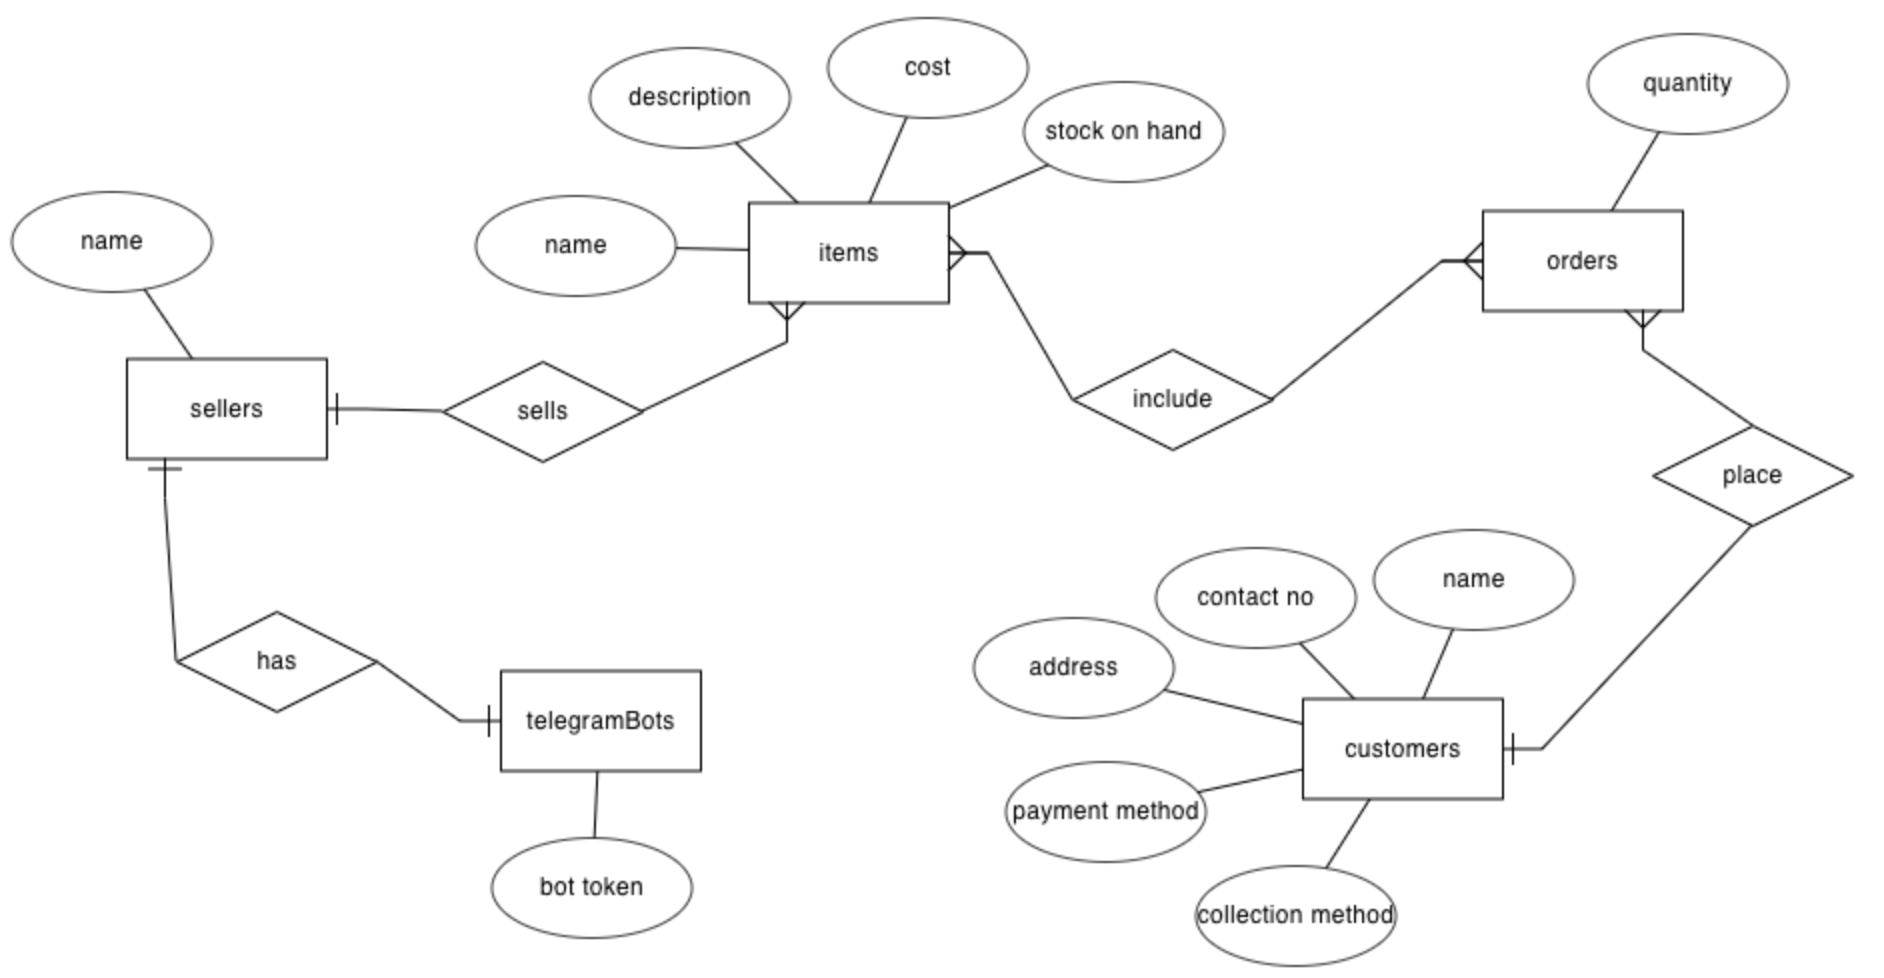
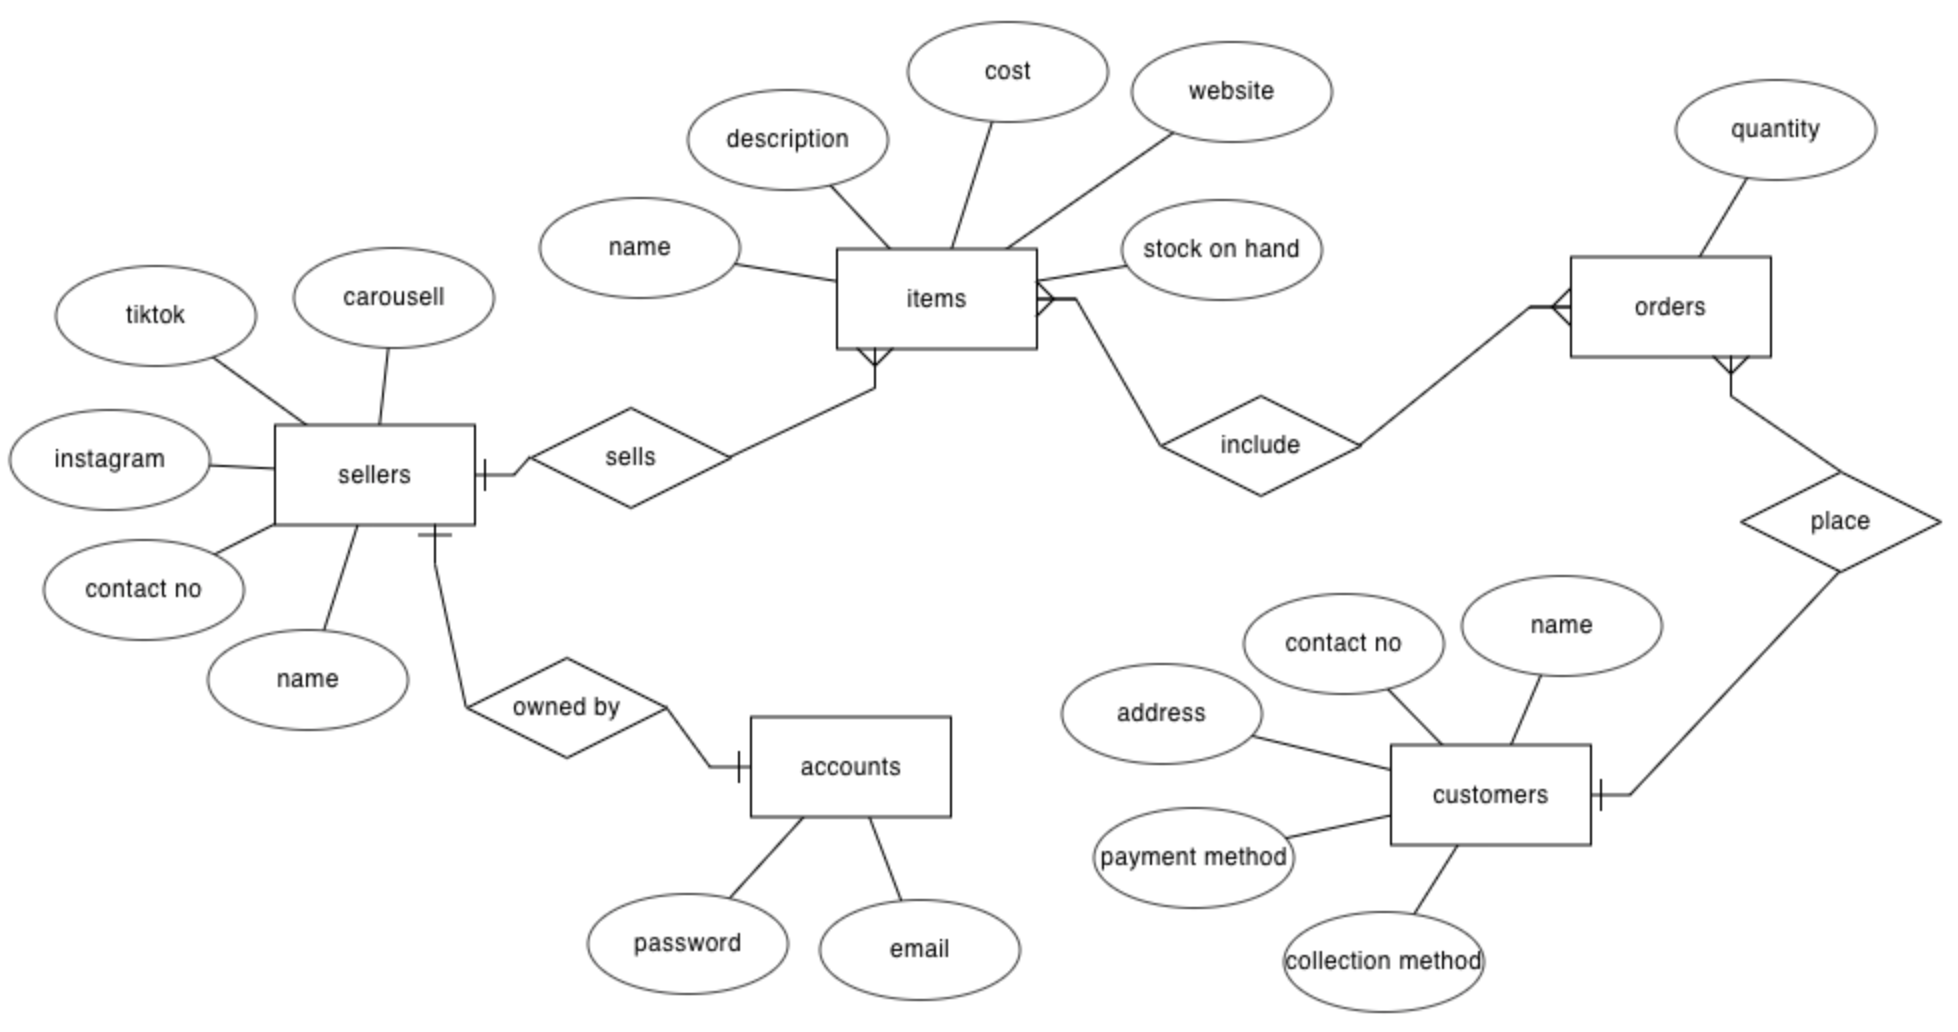
updated readme schema, erd, tele link

diff --git a/src/main/java/com/bizorder/controller/ItemController.java b/src/main/java/com/bizorder/controller/ItemController.java
@@ -44,6 +44,17 @@ public class ItemController {
         }
     }
 
+    // get all items by a seller
+    @GetMapping("seller/{sellerId}")
+    public ResponseEntity<Object> getItemsBySeller(@PathVariable("sellerId") Integer sellerId) {
+        try {
+            return ResponseHandler.responseBuilder("Requested seller items retrieved", HttpStatus.OK, itemService.getItemsBySeller(sellerId));
+        } catch (Exception e) {
+            return ResponseEntity.status(HttpStatus.INTERNAL_SERVER_ERROR).body("Error getting item details: " + e.getMessage());
+        }
+    }
+    
+
     // Create
     @PostMapping
     public ResponseEntity<Object> createSeller(@RequestBody Item item) {

diff --git a/src/main/java/com/bizorder/service/impl/ItemServiceImpl.java b/src/main/java/com/bizorder/service/impl/ItemServiceImpl.java
@@ -37,6 +37,14 @@ public class ItemServiceImpl implements ItemService{
     }
 
     @Override
+    public List<Item> getItemsBySeller(Integer sellerId) {
+        if (itemRepository.findItemsBySellerId(sellerId).isEmpty()) {
+            throw new SearchNotFoundException("Requested seller does not exist");
+        }
+        return itemRepository.findItemsBySellerId(sellerId);
+    }
+
+    @Override
     public String createItem(Item item) {
         
         // Retrieve the sellerId from the item object

diff --git a/src/main/java/com/bizorder/repository/ItemRepository.java b/src/main/java/com/bizorder/repository/ItemRepository.java
@@ -1,9 +1,14 @@
 package com.bizorder.repository;
 
+import java.util.List;
+
 import org.springframework.data.jpa.repository.JpaRepository;
+import org.springframework.data.jpa.repository.Query;
 
 import com.bizorder.model.Item;
 
 public interface ItemRepository extends JpaRepository<Item, Integer> {
     
+    @Query("SELECT i FROM Item i WHERE i.seller.sellerId = :sellerId")
+    List<Item> findItemsBySellerId(Integer sellerId);
 }

diff --git a/src/main/java/com/bizorder/service/ItemService.java b/src/main/java/com/bizorder/service/ItemService.java
@@ -8,6 +8,7 @@ public interface ItemService {
    
     public List<Item> getAllItems();
     public Item getItem(Integer itemId);
+    public List<Item> getItemsBySeller(Integer sellerId);
     public String createItem(Item item);
     public String updateItem(Item item, Integer itemId);
     public String deleteItem(Integer itemId);

diff --git a/readme.md b/readme.md
@@ -35,3 +35,7 @@ This project aims to solve the pain point of small business owners by providing 
 ## Proposed SQL Schema
 
 ![SQL Schema](src/main/resources/static/images/sql-schema.png)
+
+## Telegram Bot GitHub (In Progress)
+
+[Link](https://github.com/christiinelim/bizorder-bot)
